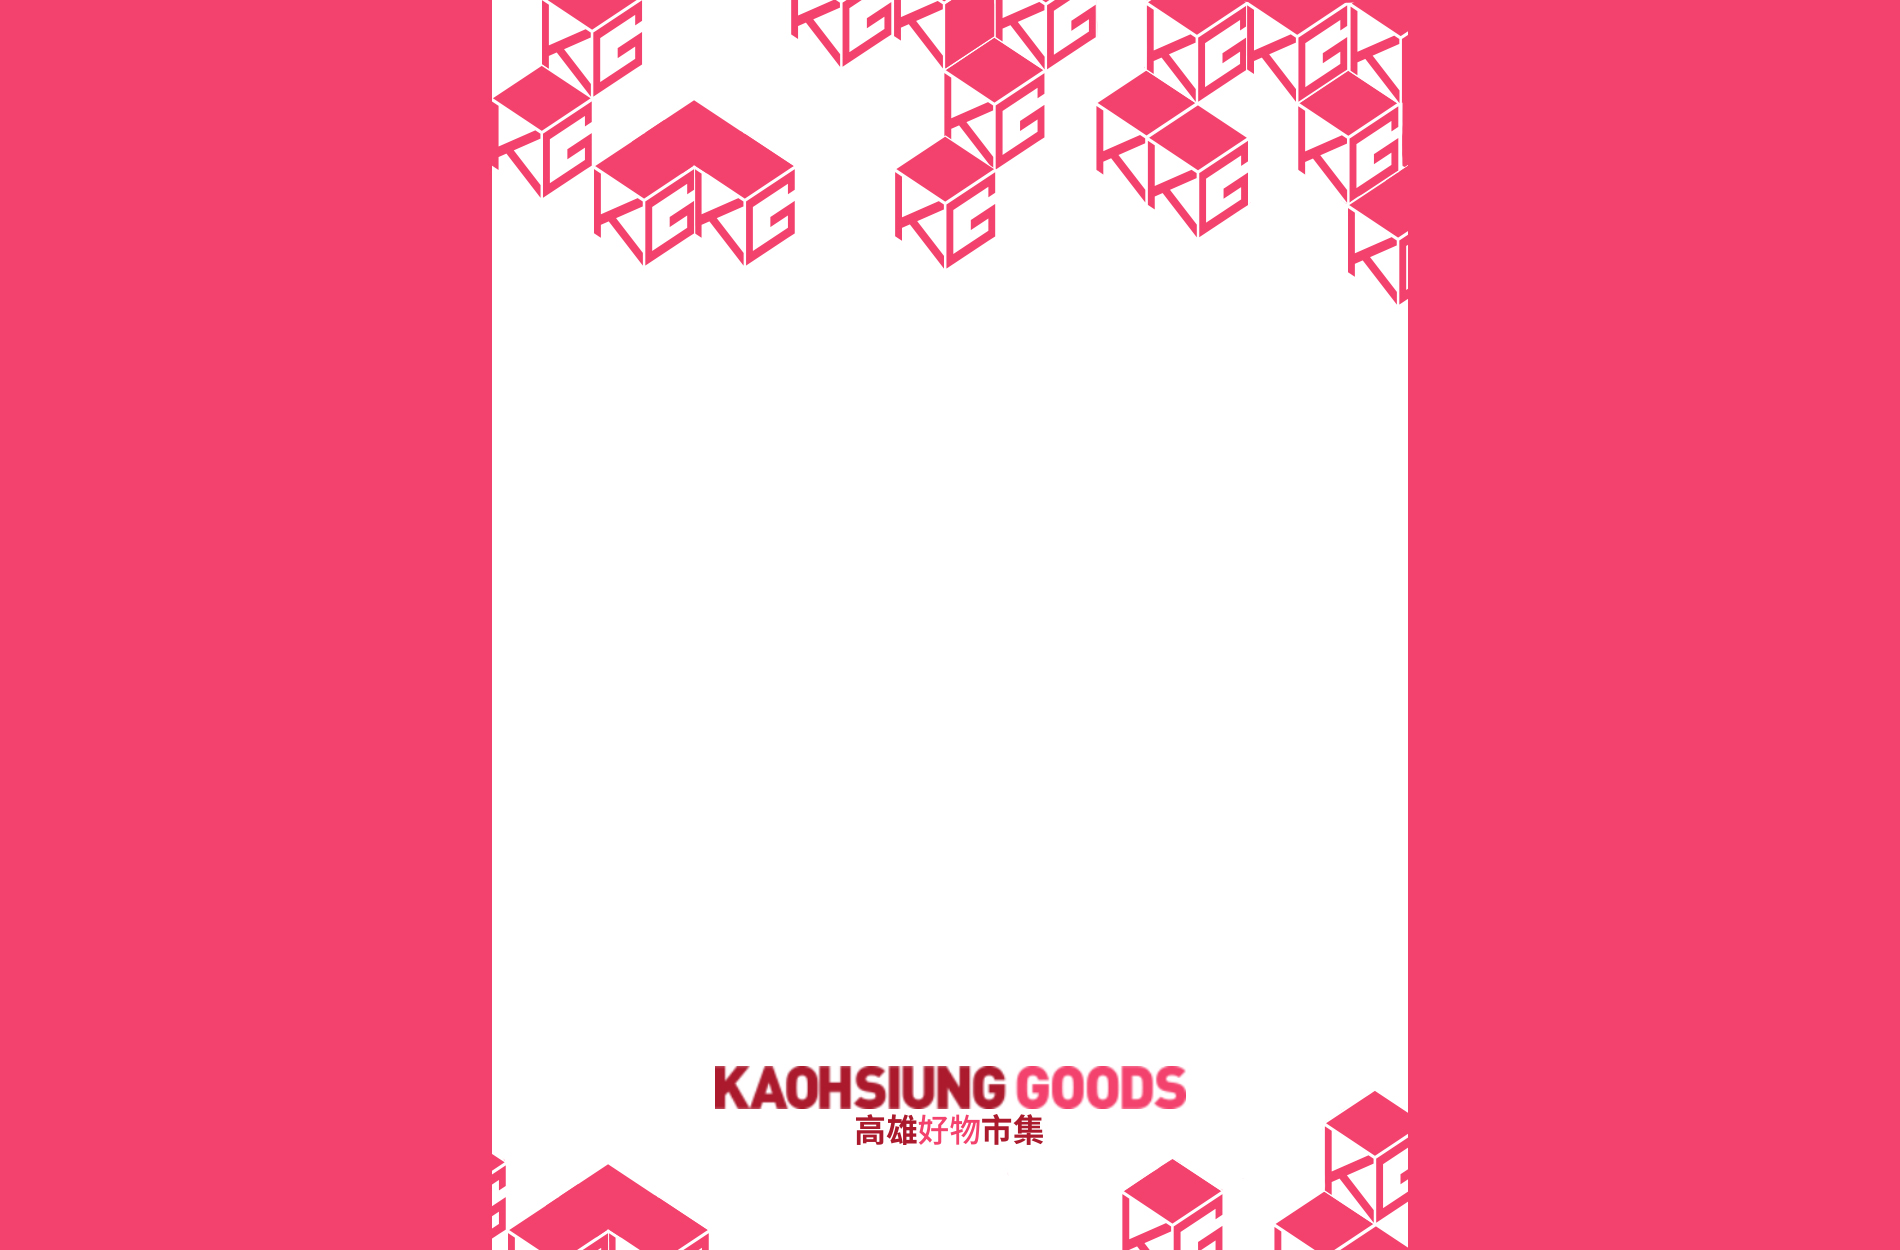
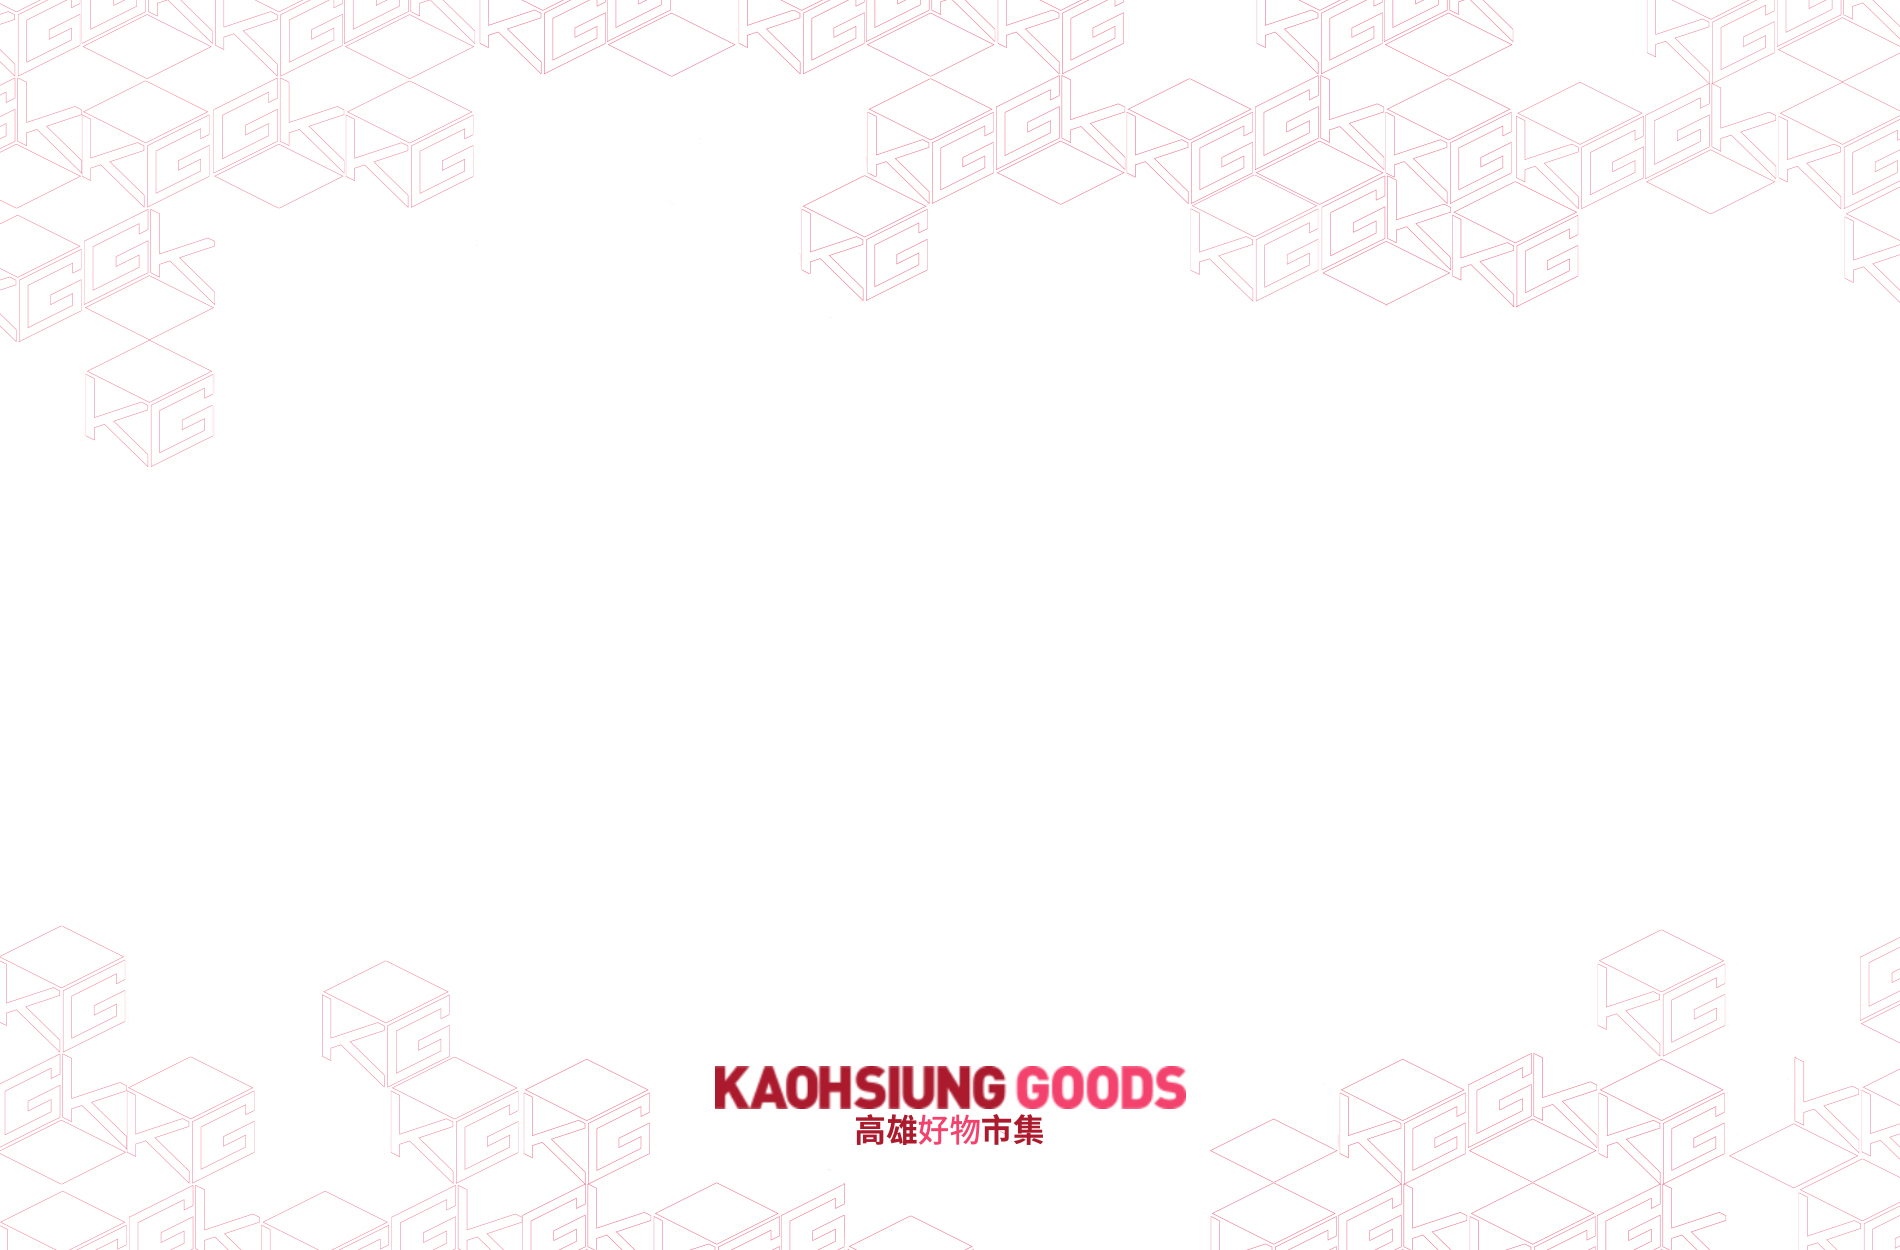
1

diff --git a/index.html b/index.html
@@ -22,18 +22,18 @@
         <!-- Masthead-->
         <header class="masthead">
             <div class="container">
-                <div class="masthead-heading text-uppercase" style="color: black;">AR好物拉霸機</div>
-                <div class="masthead-subheading" style="color: black;">小動作大驚喜</div>
-                <a class="btn btn-primary btn-xl text-uppercase js-scroll-trigger" href="#services">開始進行</a>
+                <div class="masthead-heading text-uppercase custom-font" style="color: black;">AR好物拉霸機</div>
+                <div class="masthead-subheading custom-font" style="color: black;">小動作大驚喜</div>
+                <a class="btn btn-primary btn-xl text-uppercase js-scroll-trigger custom-font" href="#services">開始進行</a>
             </div>
         </header>
         <!-- Services-->
         <section class="page-section" id="services">
             <div class="container">
                 <div class="text-center">
-                    <h2 class="section-heading text-uppercase">取得活動</h2>
-                    <h2 class="section-heading text-uppercase">QR Code</h2>
-                    <h3 class="section-subheading text-muted">輸入您的高雄好物註冊信箱</h3>
+                    <h2 class="section-heading text-uppercase custom-font">取得活動</h2>
+                    <h2 class="section-heading text-uppercase custom-font">QR Code</h2>
+                    <h3 class="section-subheading text-muted custom-font">輸入您的高雄好物市集註冊信箱</h3>
                 </div>
                 <div class="text-center">
                     <span class="fa-stack fa-4x"><i class="fas fa-circle fa-stack-2x text-primary"></i><i class="fas fa-laptop fa-stack-1x fa-inverse"></i></span>
@@ -41,14 +41,14 @@
                 <div class="text-center padding-11">
                     <div class="input-group mb-3">
                         <div class="input-group-prepend">
-                          <span class="input-group-text" id="inputGroup-sizing-default">信箱</span>
+                          <span class="input-group-text custom-font" id="inputGroup-sizing-default">信箱</span>
                         </div>
                         <input id="CustomerEmailAddress" type="text" class="form-control" aria-label="Default" aria-describedby="inputGroup-sizing-default">
                       </div>
                 </div>
                 <div class="text-center padding-11">
-                    <h6 id="LabelErrorEmailAddress" class="text-danger" style="display:none">*輸入的電子郵件格式有誤</h6>
-                    <button id="BtnGetCustomerIdQRCode" class="btn btn-primary btn-xl text-uppercase">下一步</button>
+                    <h6 id="LabelErrorEmailAddress" class="text-danger custom-font" style="display:none">*輸入的電子郵件格式有誤</h6>
+                    <button id="BtnGetCustomerIdQRCode" class="btn btn-primary btn-xl text-uppercase custom-font">下一步</button>
                     <a id="ScrollTriggerGetCustomerIdQRCode" class="js-scroll-trigger" href="#result" style="display: none;"></a>
                 </div>
             </div>
@@ -57,8 +57,8 @@
         <section class="page-section bg-light" id="result">
             <div class="container">
                 <div class="text-center">
-                    <h2 class="section-heading text-uppercase">開始遊戲！</h2>
-                    <h3 class="section-subheading text-muted">若條碼無法使用請確認信箱是否輸入錯誤</h3>
+                    <h2 class="section-heading text-uppercase custom-font">開始遊戲！</h2>
+                    <h3 class="section-subheading text-muted custom-font">若條碼無法使用請確認信箱是否輸入正確</h3>
                 </div>
                 <div class="text-center">
                     <div id="BlockCustomerIdQRCode">
@@ -71,7 +71,7 @@
         <footer class="footer py-4">
             <div class="container">
                 <div class="row align-items-center">
-                    <div class="col-lg-4 text-lg-left">Copyright © KaoGifts 2020</div>
+                    <div class="col-lg-4 text-lg-left custom-font">Copyright © KaoGifts 2020</div>
                 </div>
             </div>
         </footer>

diff --git a/css/styles.css b/css/styles.css
@@ -10097,7 +10097,7 @@ header.masthead {
   background-attachment: scroll;
   background-position: bottom center;
   background-size: contain;
-  background-color: #f3426e;
+  background-color: white;
 }
 header.masthead .masthead-subheading {
   font-size: 1.5rem;

diff --git a/css/stie_custom.css b/css/stie_custom.css
@@ -1,3 +1,7 @@
 .padding-11{
     padding: 11px;
 }
+
+.custom-font{
+    font-family: Bahnschrift,微軟正黑體;
+}
